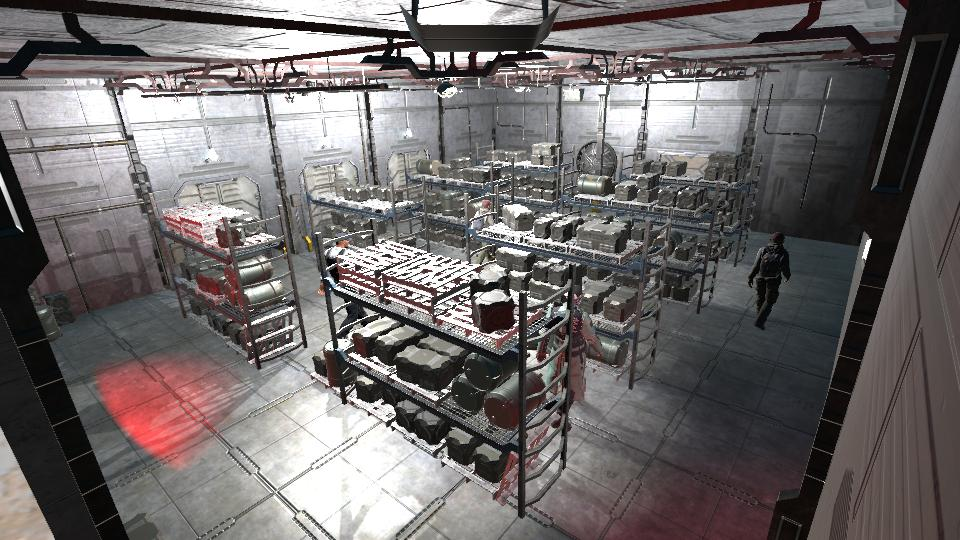
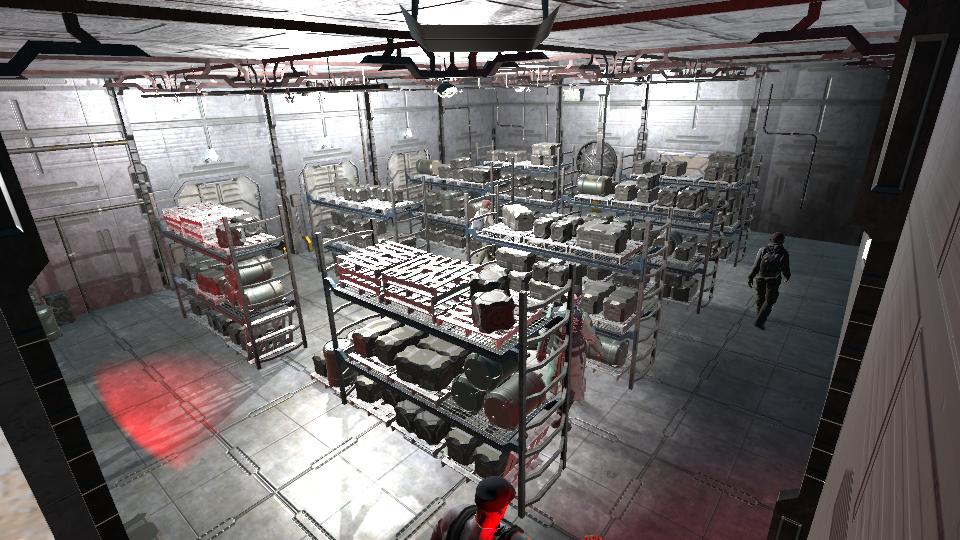
Fixed Guard Movement

Changed region(s): [[0.4375, 0.8593, 0.5625, 1.0], [0.3125, 0.4148, 0.4062, 0.6222], [0.5938, 0.9778, 0.625, 1.0]]

diff --git a/UnityEvidencia2/Assets/Scripts/GuardController.cs b/UnityEvidencia2/Assets/Scripts/GuardController.cs
@@ -31,21 +31,7 @@ public class GuardController : MonoBehaviour
 
         patrolRoute = new List<Vector3>
         {
-            new Vector3(4, 7, 3), new Vector3(14, 7, 3), new Vector3(21, 7, 3),
-            new Vector3(21, 7, 9), new Vector3(14, 7, 9), new Vector3(4, 7, 9),
-            new Vector3(4, 7, 15), new Vector3(14, 7, 15), new Vector3(21, 7, 15),
-            new Vector3(21, 7, 21), new Vector3(14, 7, 21), new Vector3(4, 7, 21),
-            new Vector3(4, 7, 27), new Vector3(14, 7, 27), new Vector3(21, 7, 27),
-            new Vector3(4, 7, 3), new Vector3(14, 7, 3), new Vector3(21, 7, 3),
-            new Vector3(21, 7, 9), new Vector3(14, 7, 9), new Vector3(4, 7, 9),
-            new Vector3(4, 7, 15), new Vector3(14, 7, 15), new Vector3(21, 7, 15),
-            new Vector3(21, 7, 21), new Vector3(14, 7, 21), new Vector3(4, 7, 21),
-            new Vector3(4, 7, 27), new Vector3(14, 7, 27), new Vector3(21, 7, 27),
-            new Vector3(4, 7, 3), new Vector3(14, 7, 3), new Vector3(21, 7, 3),
-            new Vector3(21, 7, 9), new Vector3(14, 7, 9), new Vector3(4, 7, 9),
-            new Vector3(4, 7, 15), new Vector3(14, 7, 15), new Vector3(21, 7, 15),
-            new Vector3(21, 7, 21), new Vector3(14, 7, 21), new Vector3(4, 7, 21),
-            new Vector3(4, 7, 27), new Vector3(14, 7, 27), new Vector3(21, 7, 27)
+            new Vector3(21, 0, 3)
         };
 
         controlStationPosition = new Vector3(14f, 0f, 1f);

diff --git a/UnityEvidencia2/Assets/Scripts/WebSocketClient.cs b/UnityEvidencia2/Assets/Scripts/WebSocketClient.cs
@@ -99,7 +99,7 @@ public class WebSocketClient : MonoBehaviour
 
         // Set initial positions
         drone.transform.position = landingStation;
-        guard.transform.position = new Vector3(11, 0, 8);
+        guard.transform.position = new Vector3(21, 0, 3);
     }
 
     private void InitializeCameras()
